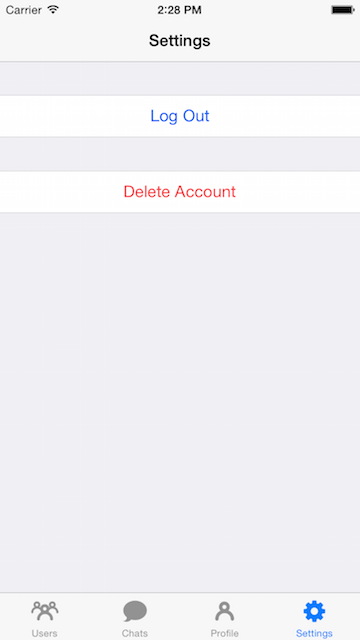
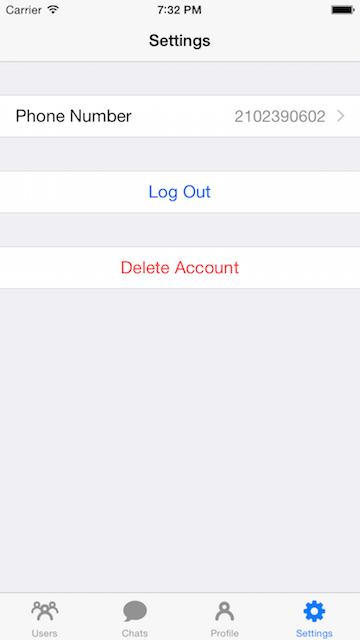
Add Phone Number cell to Settings

diff --git a/Chats/SettingsTableViewController.swift b/Chats/SettingsTableViewController.swift
@@ -1,6 +1,12 @@
 import UIKit
 
 class SettingsTableViewController: UITableViewController, UIActionSheetDelegate {
+    enum Section : Int {
+        case Phone
+        case LogOut
+        case DeleteAccount
+    }
+
     convenience init() {
         self.init(style: .Grouped)
         title = "Settings"
@@ -14,7 +20,7 @@ class SettingsTableViewController: UITableViewController, UIActionSheetDelegate 
     // MARK: - UITableViewDataSource
 
     override func numberOfSectionsInTableView(tableView: UITableView) -> Int {
-        return 2
+        return 3
     }
 
     override func tableView(tableView: UITableView, numberOfRowsInSection section: Int) -> Int {
@@ -22,12 +28,31 @@ class SettingsTableViewController: UITableViewController, UIActionSheetDelegate 
     }
 
     override func tableView(tableView: UITableView, cellForRowAtIndexPath indexPath: NSIndexPath) -> UITableViewCell {
-        let cell = tableView.dequeueReusableCellWithIdentifier("reuseIdentifier", forIndexPath: indexPath) as! UITableViewCell
+        // Set style & identifier based on section
+        let section = Section(rawValue: indexPath.section)!
+        var style: UITableViewCellStyle = .Default
+        var identifier = "Default"
+        if section == .Phone {
+            style = .Value1
+            identifier = "Value1"
+        }
 
+        // Dequeue or create cell with style & identifier
+        var cell = tableView.dequeueReusableCellWithIdentifier(identifier) as! UITableViewCell!
+        if cell == nil {
+            cell = UITableViewCell(style: style, reuseIdentifier: identifier)
+            cell.textLabel?.font = UIFont.systemFontOfSize(18)
+        }
+
+        // Customize cell
         cell.textLabel?.textAlignment = .Center
-
-        switch indexPath.section {
-        case 0:
+        switch section {
+        case .Phone:
+            cell.accessoryType = .DisclosureIndicator
+            cell.detailTextLabel?.text = account.phone
+            cell.textLabel?.text = "Phone Number"
+            cell.textLabel?.textAlignment = .Left
+        case .LogOut:
             cell.textLabel?.text = "Log Out"
             cell.textLabel?.textColor = UIColor(red: 0/255, green: 88/255, blue: 249/255, alpha: 1)
         default:
@@ -43,8 +68,10 @@ class SettingsTableViewController: UITableViewController, UIActionSheetDelegate 
     override func tableView(tableView: UITableView, didSelectRowAtIndexPath indexPath: NSIndexPath) {
         tableView.deselectRowAtIndexPath(indexPath, animated: true)
 
-        switch indexPath.section {
-        case 0:
+        switch Section(rawValue: indexPath.section)! {
+        case .Phone:
+            navigationController?.pushViewController(EditPhoneTableViewController(), animated: true)
+        case .LogOut:
             account.logOut()
         default:
             let actionSheet = UIActionSheet(title: "Deleting your account will permanently delete your phone number, picture, and first & last name.\n\nAre you sure you want to delete your account?", delegate: self, cancelButtonTitle: "Cancel", destructiveButtonTitle: "Delete Accout")

diff --git a/Chats/EditPhoneTableViewController.swift b/Chats/EditPhoneTableViewController.swift
@@ -1,31 +1,17 @@
 import UIKit
 
-class EnterPhoneTableViewController: UITableViewController {
+class EditPhoneTableViewController: UITableViewController {
     convenience init() {
         self.init(style: .Grouped)
         let verifyBarButtonItem = UIBarButtonItem(title: "Verify", style: .Done, target: self, action: "verifyAction")
         verifyBarButtonItem.enabled = false
         navigationItem.rightBarButtonItem = verifyBarButtonItem
-        title = "Enter Phone Number"
+        title = "Phone Number"
     }
-
-    // MARK - UIViewController
 
     override func viewDidLoad() {
         super.viewDidLoad()
         tableView.registerClass(TextFieldTableViewCell.self, forCellReuseIdentifier: NSStringFromClass(TextFieldTableViewCell))
-
-        let tableFooterView = UIView(frame: CGRect(x: 0, y: 0, width: view.frame.width, height: 44+32))
-        tableFooterView.autoresizingMask = .FlexibleWidth
-        tableView.tableFooterView = tableFooterView
-
-        let continueAsGuestButton = UIButton.buttonWithType(.System) as! UIButton
-        continueAsGuestButton.addTarget(self, action: "continueAsGuestAction", forControlEvents: .TouchUpInside)
-        continueAsGuestButton.autoresizingMask = .FlexibleLeftMargin | .FlexibleRightMargin | .FlexibleTopMargin
-        continueAsGuestButton.frame = CGRect(x: (view.frame.width-184)/2, y: 32, width: 184, height: 44)
-        continueAsGuestButton.setTitle("Continue as Guest", forState: .Normal)
-        continueAsGuestButton.titleLabel?.font = UIFont.systemFontOfSize(17)
-        tableFooterView.addSubview(continueAsGuestButton)
     }
 
     // MARK: UITableViewDataSource
@@ -39,25 +25,22 @@ class EnterPhoneTableViewController: UITableViewController {
         let textField = cell.textField
         textField.addTarget(self, action: "textFieldDidChange:", forControlEvents: .EditingChanged)
         textField.clearButtonMode = .WhileEditing
-        textField.keyboardType = UIKeyboardType.PhonePad
+        textField.keyboardType = UIKeyboardType.NumberPad
         textField.placeholder = "Phone Number"
+        textField.text = account.phone
         textField.becomeFirstResponder()
         return cell
     }
 
     // MARK: Actions
 
-    func continueAsGuestAction() {
-        continueAsGuest()
-    }
-
     func textFieldDidChange(textField: UITextField) {
         let textLength = count(textField.text)
-        navigationItem.rightBarButtonItem?.enabled = (textLength == 10)
+        navigationItem.rightBarButtonItem?.enabled = (textLength == 10 && textField.text != account.phone)
     }
 
     func verifyAction() {
         println("Verify")
-//        myAccount.createCodeWithPhone(textField.text)
+        //        myAccount.createCodeWithPhone(textField.text)
     }
 }

diff --git a/Chats/AppDelegate.swift b/Chats/AppDelegate.swift
@@ -52,6 +52,7 @@ func createTabBarController() -> UITabBarController {
 }
 
 func continueAsGuest() {
+    account.phone = "2102390602"
     account.user = User(ID: 24, username: "guest", firstName: "Guest", lastName: "User")
     account.accessToken = "guest_access_token"
     let minute: NSTimeInterval = 60, hour = minute * 60, day = hour * 24

diff --git a/Chats/Account.swift b/Chats/Account.swift
@@ -3,8 +3,9 @@ import ObjectiveC.NSObject
 let account = Account()
 
 class Account: NSObject {
-    dynamic var accessToken: String!
+    var phone: String!
     var user: User!
+    dynamic var accessToken: String!
     var users = [User]()
     var chats = [Chat]()
 
